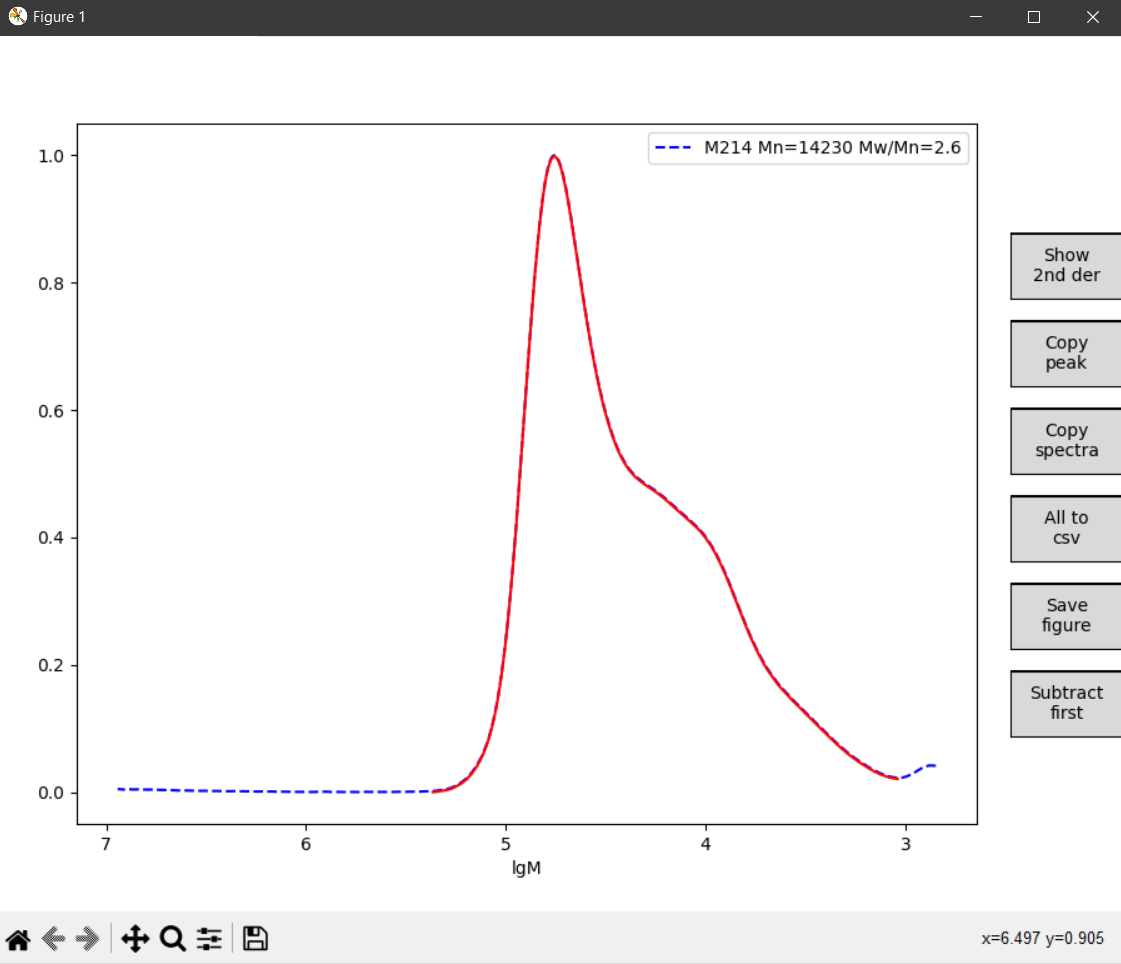
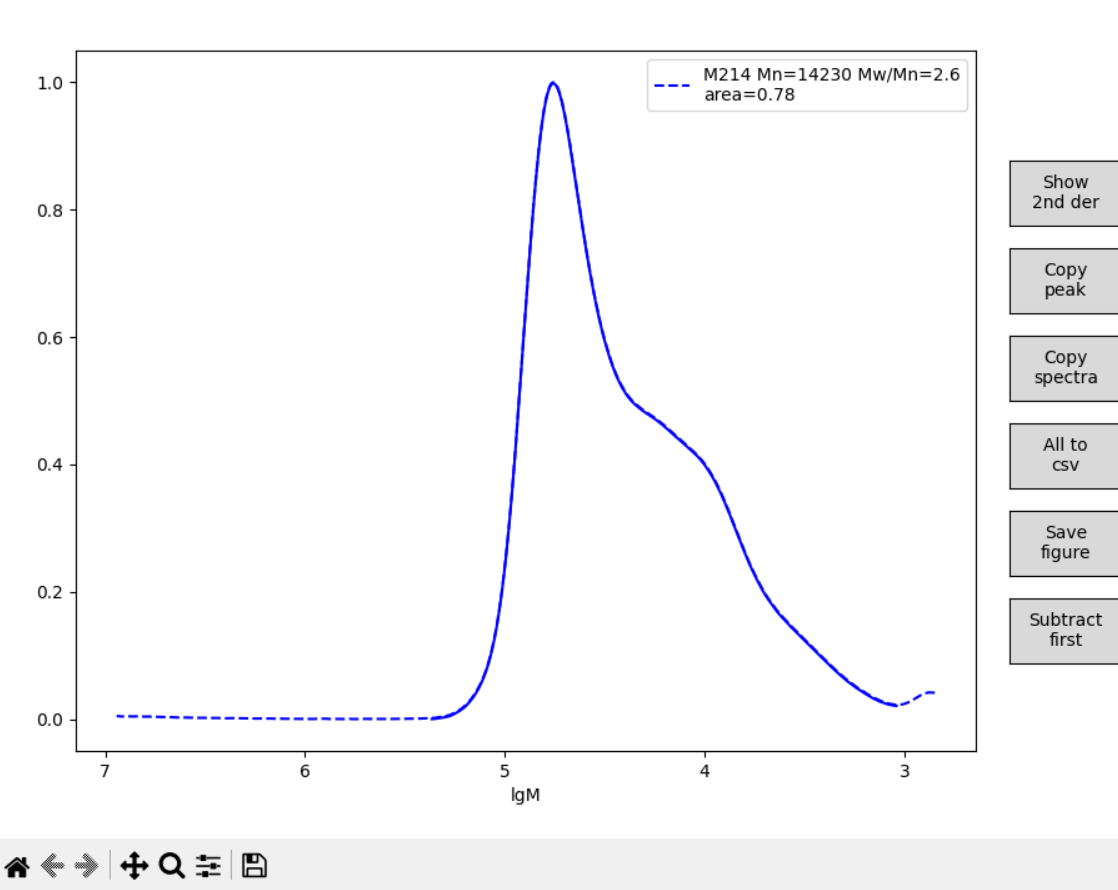
v 6.0.0
gauss fitting returned

diff --git a/plot.py b/plot.py
@@ -4,12 +4,15 @@ import configparser
 import csv
 from itertools import zip_longest
 from statistics import mean
+
+from scipy.optimize import curve_fit
 from matplotlib import pyplot, widgets
 import numpy as np
 
 from scripts import norm, linreg, data_math
 from scripts.pcalc import calculate_peak
 from scripts.data_math import normalize_second_by_point
+from scripts.func import gauss, multi_gauss
 
 
 base_color = 'blue', 'red', 'green', 'black', 'magenta', 'cyan', 'yellow'
@@ -19,20 +22,25 @@ class Plot:
         self.fig, self.ax1 = pyplot.subplots(figsize=(9.0, 7.0), sharex=True)
         self.ax1.set_position([0.07, 0.1, 0.8, 0.8])
         self.ax1.set_xlabel('lgM')
+        self.exp_lines = []
         self.lgm = [lgm]
         self.lgm_y = [lgm_i]
         self.ex_name = [ex_name]
         self.pk_lgm = []
         self.pk_lgm_y = []
+        self.gauss_cum_lgm = []
+        self.gauss_cum_lgm_y = []
+        self.gauss_lgm = []
+        self.gauss_lgm_y = []
         self.pk_ex_name = []
         self.m_n = 0
         self.m_w = 0
         self.p_area = 0
         self.pk_max = 0
         if clean:
-            self.ax1.plot(lgm, lgm_i, color=base_color[0], label=ex_name)
+            self.exp_lines.append(self.ax1.plot(lgm, lgm_i, color=base_color[0], label=ex_name)[0])
         else:
-            self.ax1.plot(lgm, lgm_i, '--', color=base_color[0], label=ex_name)
+            self.exp_lines.append(self.ax1.plot(lgm, lgm_i, '--', color=base_color[0], label=ex_name)[0])
         self.ax1.legend()
 
         self.ax1.set_xlim(self.ax1.get_xlim()[::-1])
@@ -65,21 +73,17 @@ class Plot:
         pyplot.show()
 
     def add(self, lgm, lgm_i, ex_name, clean):
+        self.exp_lines.append(None)
         self.lgm.append(lgm)
         self.lgm_y.append(lgm_i)
         self.ex_name.append(ex_name)
         if clean:
-            self.ax1.plot(lgm, lgm_i, color=base_color[len(self.lgm) % len(base_color)], label=ex_name)
+            self.exp_lines[-1], = self.ax1.plot(lgm, lgm_i,
+                                                color=base_color[(len(self.lgm) - 1) % len(base_color)], label=ex_name)
         else:
-            self.ax1.plot(lgm, lgm_i, 'k--', color=base_color[len(self.lgm) % len(base_color)], label=ex_name)
+            self.exp_lines[-1], = self.ax1.plot(lgm, lgm_i, 'k--',
+                                                color=base_color[(len(self.lgm) - 1) % len(base_color)], label=ex_name)
         self.ax1.legend()
-
-    def update_last_legend_entry(self, extra_text):
-        handles, labels = self.ax1.get_legend_handles_labels()
-
-        if labels:
-            labels[-1] += f" {extra_text}"
-        self.ax1.legend(handles, labels)
 
     def peak(self, pk_lgm_p: list, pk_lgm_p_y: list):
         config = configparser.ConfigParser()
@@ -135,9 +139,33 @@ class Plot:
 
         self.m_n, self.m_w, self.p_area = calculate_peak(self.pk_lgm[-1], self.pk_lgm_y[-1])
         self.pk_max = self.pk_lgm[-1][self.pk_lgm_y[-1].index(max(self.pk_lgm_y[-1]))]
-        self.ax1.plot(self.pk_lgm[-1], self.pk_lgm_y[-1], color='red')
+        self.ax1.plot(self.pk_lgm[-1], self.pk_lgm_y[-1], color=base_color[(len(self.ex_name) - 1) % len(base_color)])
+        self.exp_lines[-1].set_label(f'{self.ex_name[-1]} Mn={round(self.m_n)} Mw/Mn={round(self.m_w / self.m_n, 2)}\narea={round(self.p_area, 3)}')
         self.ax1.legend()
-        self.update_last_legend_entry(f'Mn={round(self.m_n)} Mw/Mn={round(self.m_w/self.m_n, 2)}')
+
+    def gauss(self, guess, guess_bounds):
+        # Perform Gaussian fitting
+        popt, _ = curve_fit(multi_gauss, self.pk_lgm[-1], self.pk_lgm_y[-1], p0=guess, bounds=guess_bounds)
+
+        # Extract parameters
+        fitted_params = np.array(popt).reshape(-1, 3)  # [amp, cen, sigma] for each gaussian
+
+        self.gauss_cum_lgm = self.pk_lgm[-1]
+        self.gauss_cum_lgm_y = multi_gauss(self.pk_lgm[-1], *popt)
+        m_n, m_w, area = calculate_peak(self.gauss_cum_lgm, self.gauss_cum_lgm_y)
+        self.ax1.plot(self.gauss_cum_lgm, self.gauss_cum_lgm_y, color=base_color[-1],
+                      label=f'gauss Mn={round(m_n)} Mw/Mn={round(m_w / self.m_n, 2)}\narea={round(area, 3)}')
+
+        self.gauss_lgm = []
+        self.gauss_lgm_y = []
+        for i in range(len(fitted_params)):
+            self.gauss_lgm.append(self.pk_lgm[-1])
+            self.gauss_lgm_y.append(gauss(self.pk_lgm[-1], *fitted_params[i]))
+            m_n, m_w, area = calculate_peak(self.gauss_lgm[-1], self.gauss_lgm_y[-1])
+            self.ax1.plot(self.gauss_lgm[-1], self.gauss_lgm_y[-1], color=base_color[-2 - i],
+                          label=f'gauss{i} Mn={round(m_n)} Mw/Mn={round(m_w / self.m_n, 2)}\narea={round(area, 3)}')
+
+        self.ax1.legend()
 
     def copy_spectra(self, event):
         to_copy = ''
@@ -168,6 +196,16 @@ class Plot:
                 header.append(f'{self.pk_ex_name[i]}_peak_intensity')
                 data.append(self.pk_lgm[i])
                 data.append(self.pk_lgm_y[i])
+            if self.gauss_cum_lgm:
+                header.append(f'{self.pk_ex_name[-1]}_gauss_cum_lgm')
+                header.append(f'{self.pk_ex_name[-1]}gauss_cum_intensity')
+                data.append(self.gauss_cum_lgm)
+                data.append(self.gauss_cum_lgm_y)
+            for i in range(len(self.gauss_lgm)):
+                header.append(f'{self.pk_ex_name[-1]}_gauss{i}_lgm')
+                header.append(f'{self.pk_ex_name[-1]}_gauss{i}_intensity')
+                data.append(self.gauss_lgm[i])
+                data.append(self.gauss_lgm_y[i])
             writer.writerow(header)
             writer.writerows(zip_longest(*data, fillvalue="0"))
 

diff --git a/gpcurve_support.py b/gpcurve_support.py
@@ -3,11 +3,13 @@ import os
 import configparser
 import tkinter as tk
 from tkinter import ttk
+
 from tkinterdnd2 import DND_FILES, TkinterDnD
 
 import gpcurve
 from scripts import linreg, norm, const_extr, data_extr, data_math, pcalc
-from scripts.tools import safe_float, vol_to_lgm
+from scripts.tools import safe_float
+from scripts.func import vol_to_lgm
 from plot import Plot, Plot_vol
 
 _debug = True
@@ -33,11 +35,11 @@ def main(*args):
     _w1.lb2.insert(1, "drag constants pdf data file or folder")
     _w1.lb2.drop_target_register(DND_FILES)
     _w1.lb2.dnd_bind('<<Drop>>', lambda e: drop_file(_w1.lb2, e.data))
-    if _config['conf']['const_path'] != '':
-        _w1.lb2.insert(2, _config['conf']['const_path'])
+    if _config['save']['const_path'] != '':
+        _w1.lb2.insert(2, _config['save']['const_path'])
 
-    _w1.e_ff.insert(0, _config['conf']['flag1'])
-    _w1.e_sf.insert(0, _config['conf']['flag2'])
+    _w1.e_ff.insert(0, _config['save']['flag1'])
+    _w1.e_sf.insert(0, _config['save']['flag2'])
 
     _use = [_w1.use1, _w1.use2, _w1.use3, _w1.use4, _w1.use5, _w1.use6]
     _amp = [_w1.a1, _w1.a2, _w1.a3, _w1.a4, _w1.a5, _w1.a6]
@@ -64,9 +66,9 @@ def start():
     ex_name = input1.split("/")[-1].split(".")[0]
 
     if input2 != '':
-        _config.set('conf', 'const_path', input2)
-    _config.set('conf', 'flag1', flag1)
-    _config.set('conf', 'flag2', flag2)
+        _config.set('save', 'const_path', input2)
+    _config.set('save', 'flag1', flag1)
+    _config.set('save', 'flag2', flag2)
     with open(os.path.join(os.path.dirname(__file__), 'config.ini'), 'w') as configfile:
         _config.write(configfile)
 
@@ -120,6 +122,32 @@ def start():
             _w1.Text1.insert(tk.END, f'Mw = {round(_pl[-1].m_w)}\t')
             _w1.Text1.insert(tk.END, f'Mw/Mn = {round(_pl[-1].m_w / _pl[-1].m_n, 4)}\n')
             _w1.Text1.insert(tk.END, f'peak area = {round(_pl[-1].p_area, 4)}\n')
+
+        eps = 0.000001
+        gauss_guess = []
+        gauss_lower_bounds = []
+        gauss_upper_bounds = []
+        for i in range(len(_use)):
+            if bool(_use[i].get()):
+                gauss_guess.append(safe_float(_amp[i].get(), _config.getfloat('gauss', 'basic_amp')))
+                gauss_lower_bounds.append(_config.getfloat('gauss', 'amp_lower_bound'))
+                gauss_upper_bounds.append(_config.getfloat('gauss', 'amp_upper_bound'))
+
+                gauss_guess.append(safe_float(_cen[i].get(), _config.getfloat('gauss', 'basic_cen')))
+                if bool(_lock_cen[i].get()):
+                    gauss_lower_bounds.append(gauss_guess[-1] - eps)
+                    gauss_upper_bounds.append(gauss_guess[-1] + eps)
+                else:
+                    gauss_lower_bounds.append(_config.getfloat('gauss', 'cen_lower_bound'))
+                    gauss_upper_bounds.append(_config.getfloat('gauss', 'cen_upper_bound'))
+
+                gauss_guess.append(safe_float(_sigma[i].get(), _config.getfloat('gauss', 'basic_sigma')))
+                gauss_lower_bounds.append(_config.getfloat('gauss', 'sigma_lower_bound'))
+                gauss_upper_bounds.append(_config.getfloat('gauss', 'sigma_upper_bound'))
+        gauss_bounds = (gauss_lower_bounds, gauss_upper_bounds)
+        if gauss_guess:
+            _pl[-1].gauss(gauss_guess, gauss_bounds)
+
     else:
         if bool(_w1.reuse_fig.get()):
             _pl.append(Plot_vol(vol, vol_y, ex_name, _w1.clean.get()))

diff --git a/scripts/func.py b/scripts/func.py
@@ -1,0 +1,22 @@
+import numpy as np
+
+def vol_to_lgm(vol, const):
+    return const[0] + const[1] * vol + const[2] * vol ** 2 + const[3] * vol ** 3
+
+def gauss(x, amp, cen, sigma):
+    return amp * np.exp(-((x - cen) ** 2) / (2 * sigma ** 2))
+
+def multi_gauss(x, *params):
+    """
+    Multi-Gaussian function: params = [amp1, cen1, sigma1, amp2, cen2, sigma2, ...]
+    """
+    n = len(params) // 3  # Number of Gaussians
+    y = np.zeros_like(x)
+
+    for i in range(n):
+        amp = params[3 * i]
+        cen = params[3 * i + 1]
+        sigma = params[3 * i + 2]
+        y += amp * np.exp(-((x - cen) ** 2) / (2 * sigma ** 2))
+
+    return y

diff --git a/scripts/tools.py b/scripts/tools.py
@@ -1,5 +1,2 @@
-def safe_float(value):
-    return float(value.replace(',', '.')) if value else None
-
-def vol_to_lgm(vol, const):
-    return const[0] + const[1] * vol + const[2] * vol ** 2 + const[3] * vol ** 3
+def safe_float(value, default=None):
+    return float(value.replace(',', '.')) if value else default

diff --git a/README.md b/README.md
@@ -33,5 +33,7 @@ This program is designed to display and calculate peaks based on files generated
 
 ![multi_peak](screenshots/example2.png)
 
+![gauss](screenshots/example3.png)
+
 Enjoy! 😊
 
